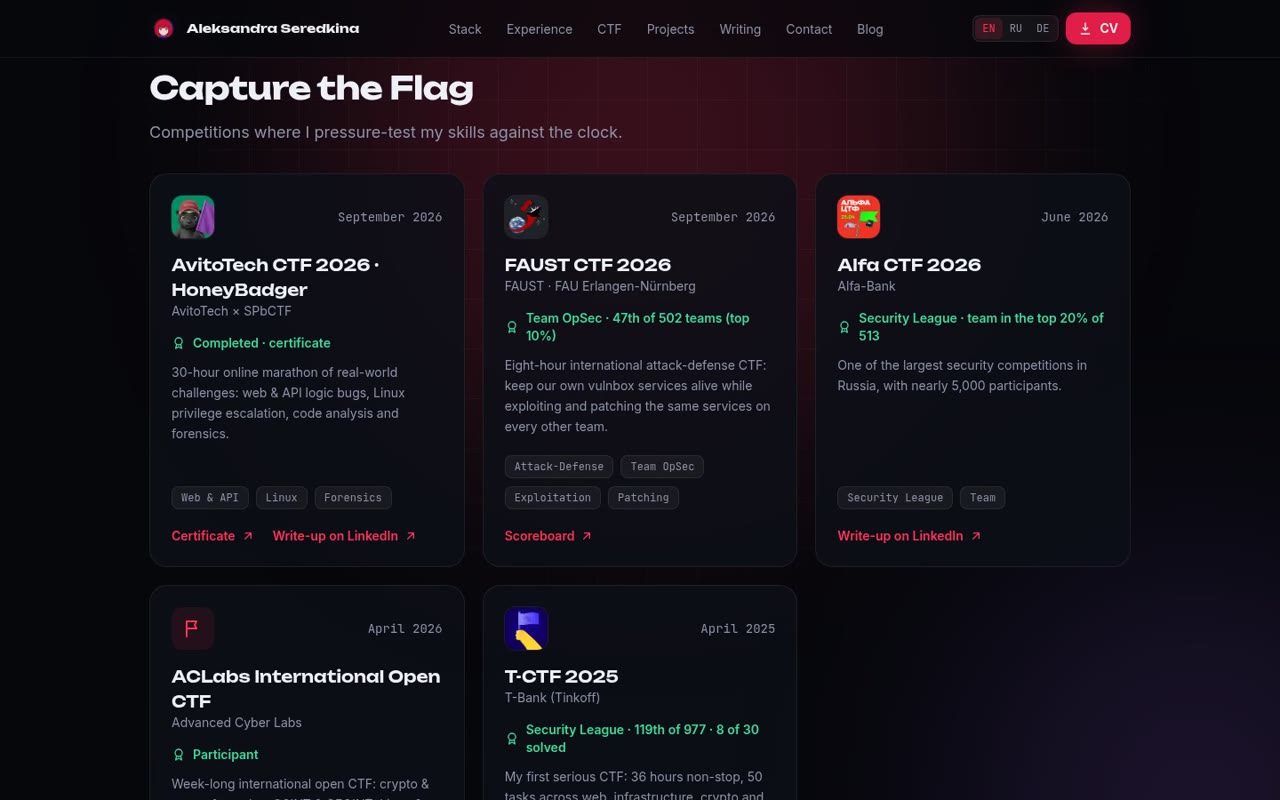
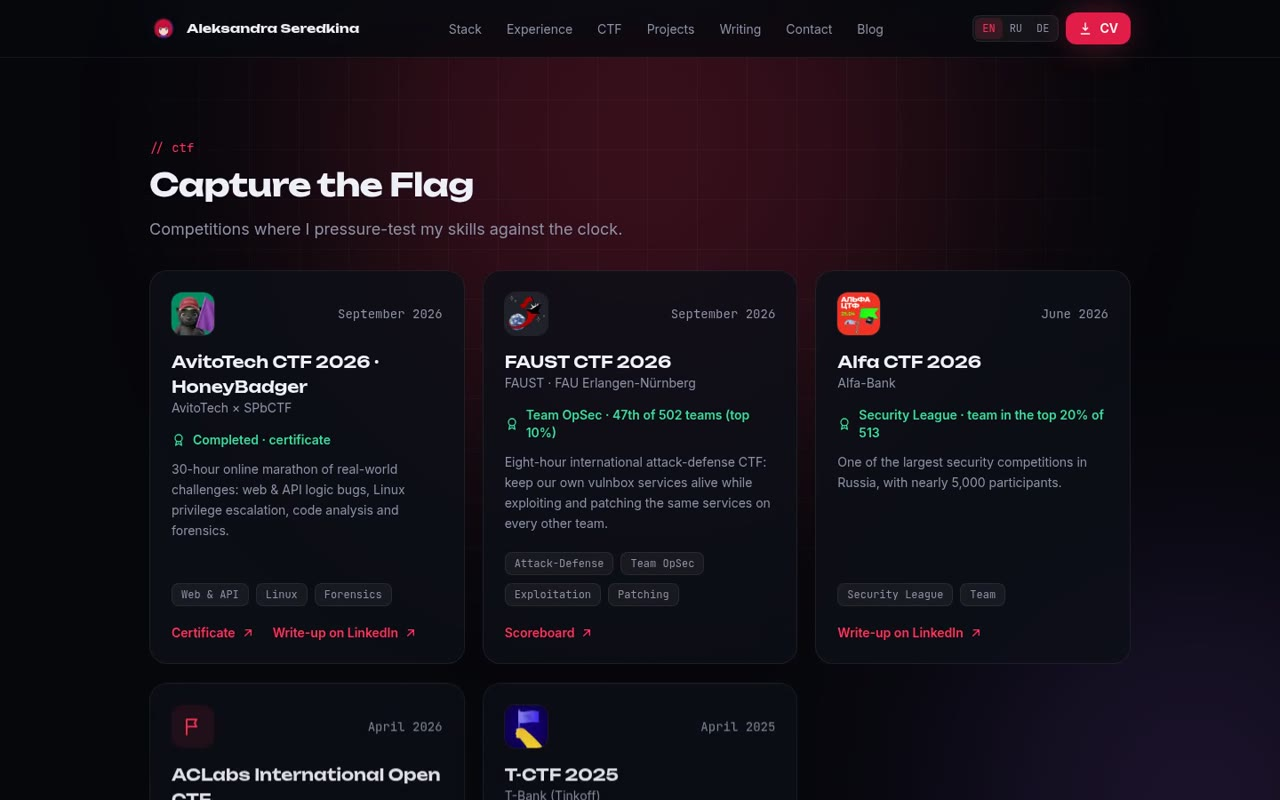
docs: polish README screenshots and artwork
Show section stills and character poses in tables, refresh stack/CTF/writing frames.

diff --git a/README.md b/README.md
@@ -32,7 +32,7 @@
 [![Hero](assets/video/stills/hero.jpg)](assets/video/site-scroll.mp4)
 
 | Stack & experience | CTF | Writing |
-| --- | --- | --- |
+| :---: | :---: | :---: |
 | [![Stack](assets/video/stills/stack.jpg)](assets/video/site-scroll.mp4) | [![CTF](assets/video/stills/ctf.jpg)](assets/video/site-scroll.mp4) | [![Writing](assets/video/stills/writing.jpg)](assets/video/site-scroll.mp4) |
 
 Full scroll: [`assets/video/site-scroll.mp4`](assets/video/site-scroll.mp4) (54s, 1440×900).
@@ -101,3 +101,11 @@ pnpm test:e2e   # Playwright + axe (prod build on :3100)
 | `SITE_PASSWORD` | Basic auth for the whole site |
 | `SITE_NOINDEX` | `1` → noindex + robots disallow |
 | `PW_CHANNEL` | `chrome` → local Chrome for e2e |
+
+## Artwork
+
+Site character — poses in `public/character/`.
+
+| hero | wave | laptop | reading | lost |
+| :---: | :---: | :---: | :---: | :---: |
+| <img src="public/character/hero.webp" alt="hero"> | <img src="public/character/wave.webp" alt="wave"> | <img src="public/character/laptop.webp" alt="laptop"> | <img src="public/character/reading.webp" alt="reading"> | <img src="public/character/lost.webp" alt="lost"> |
